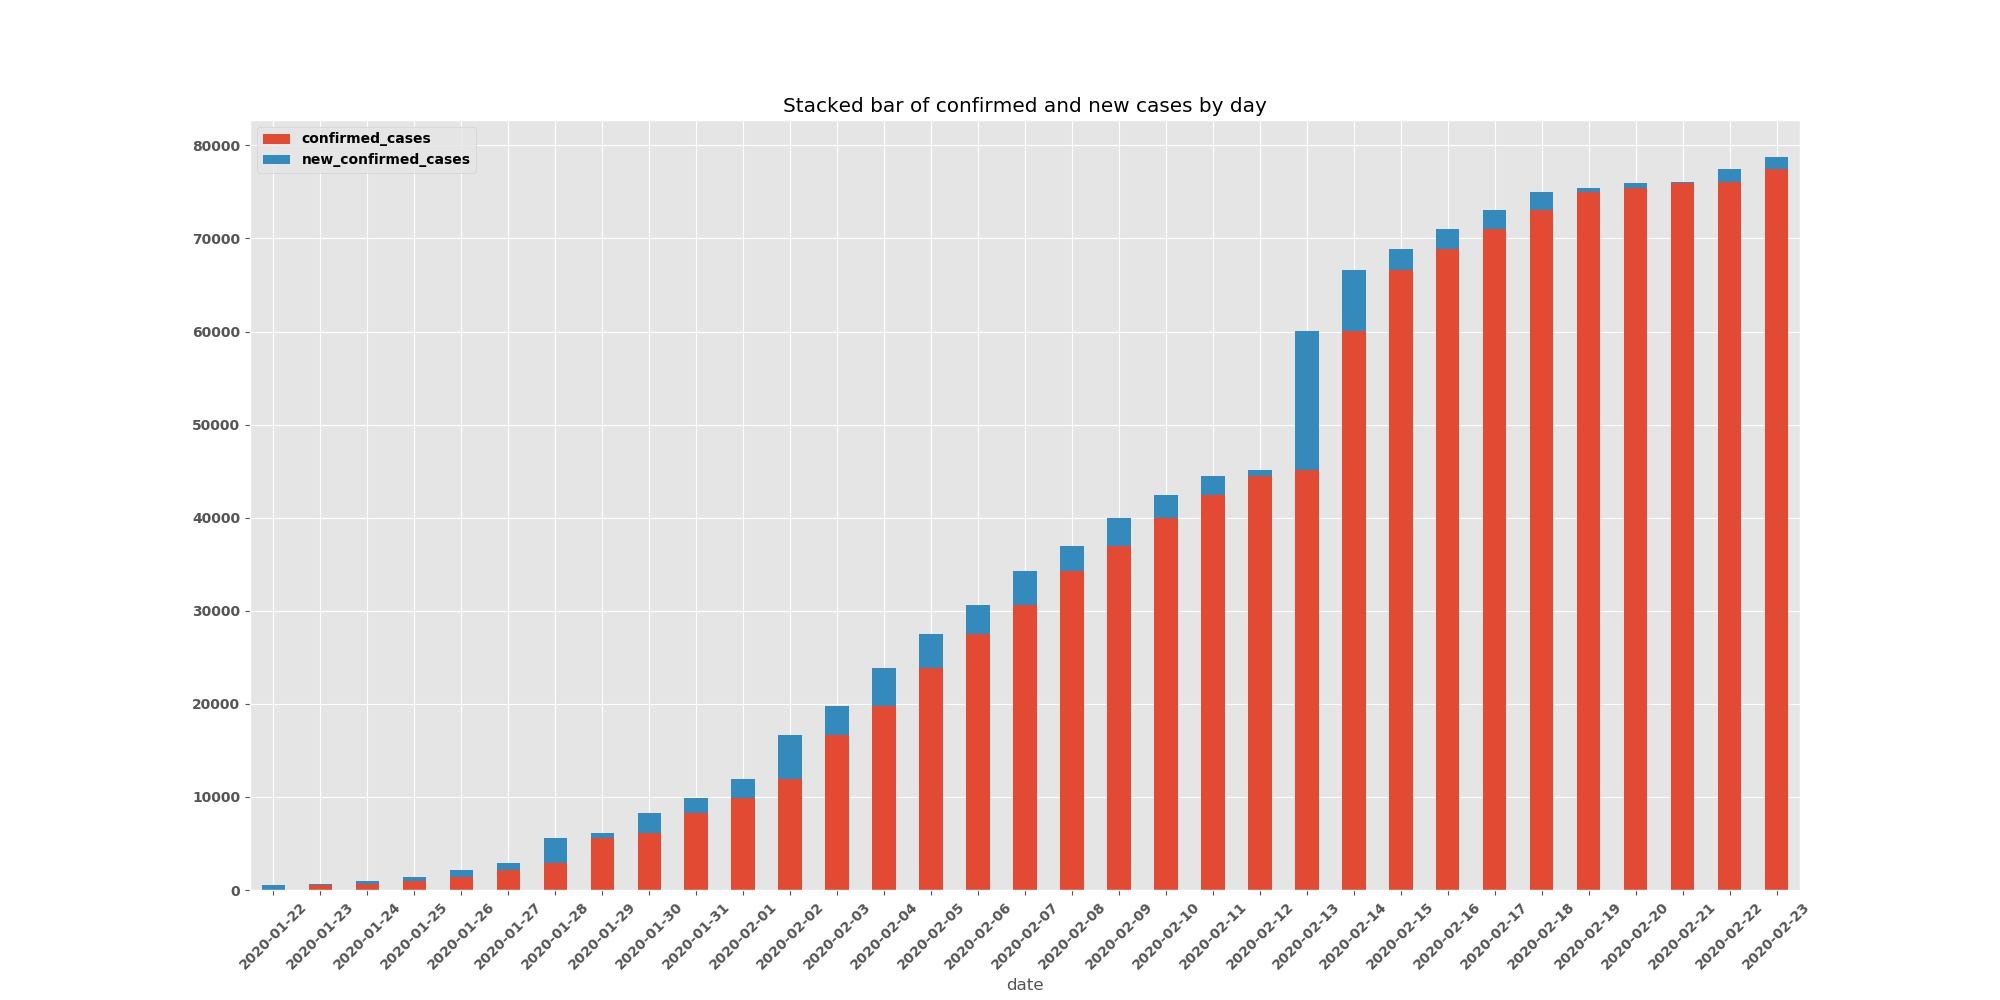
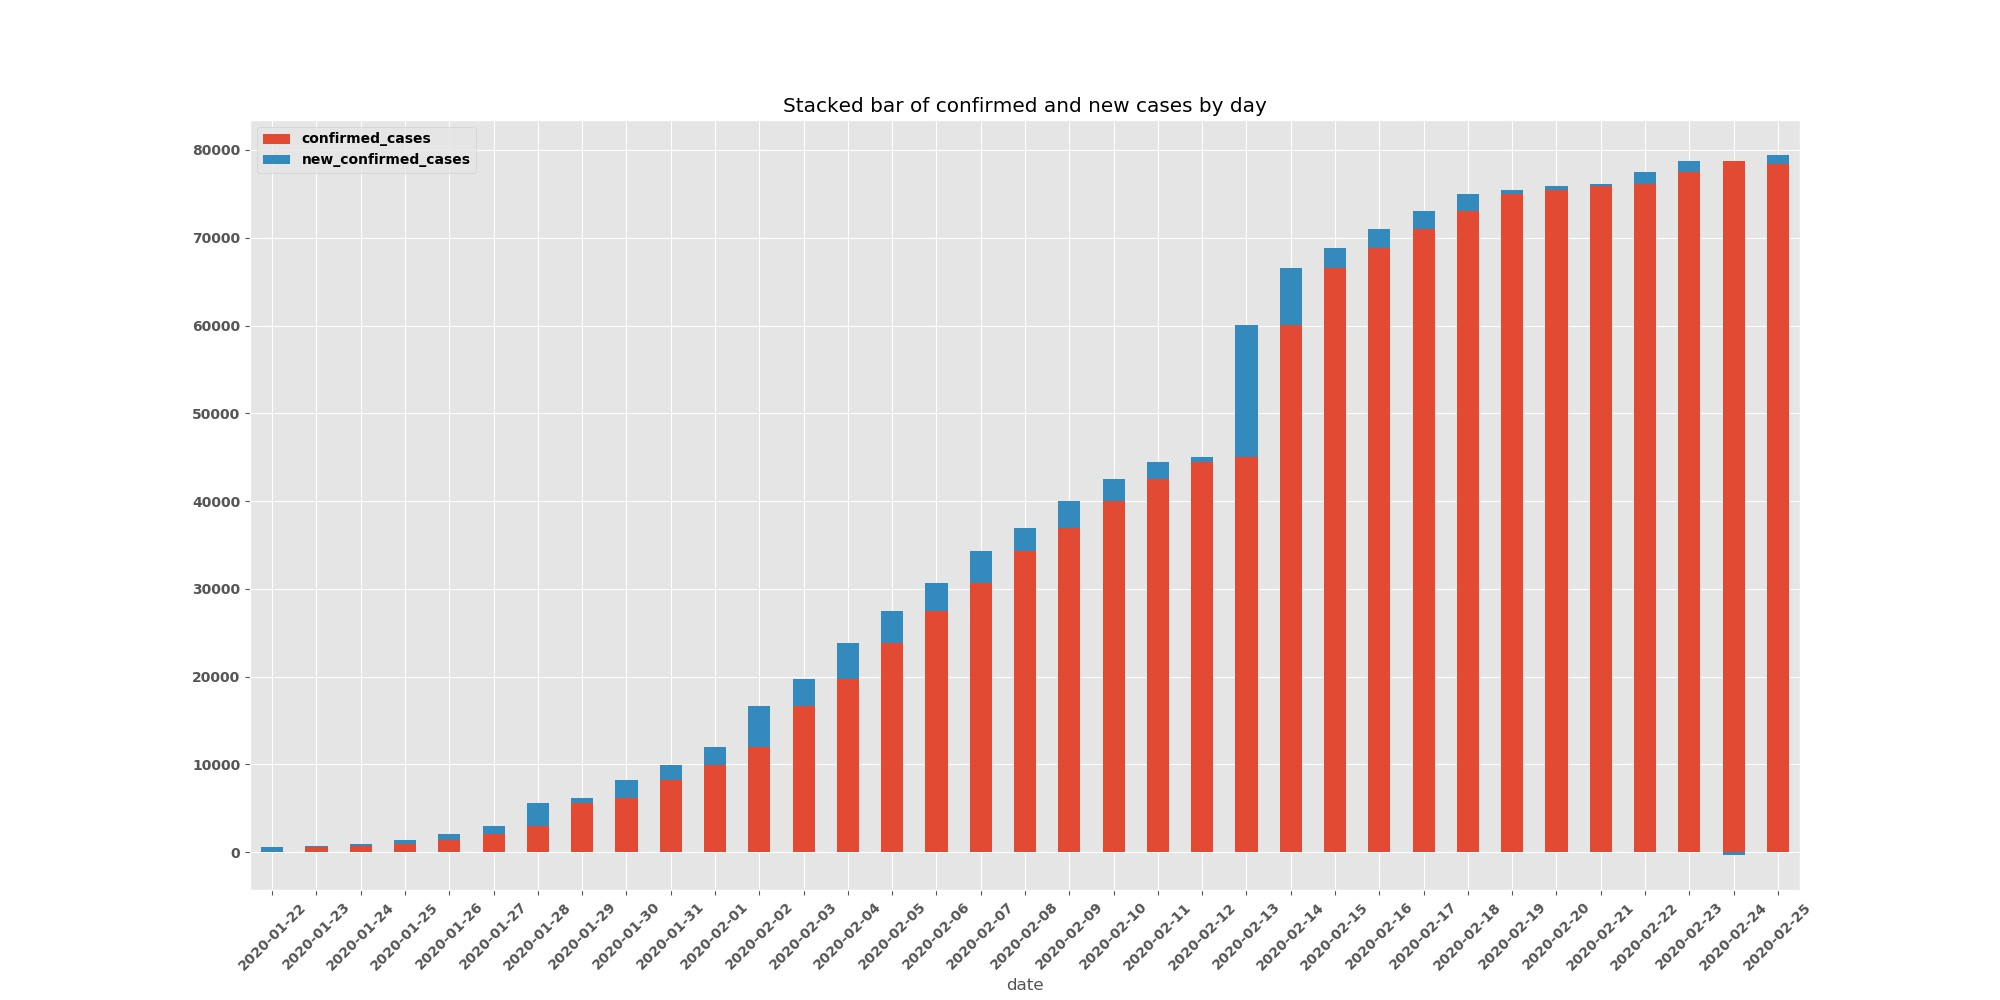
ADD - added report for 26th, disclaimer: the 24th has some inconsistencies in the data

diff --git a/README.md b/README.md
@@ -1,4 +1,4 @@
-#covid-19-analysis
+# covid-19-analysis
 
 ![alt text](https://github.com/AaronWard/coronavirus-analysis/blob/master/tableau/spread.gif "Spread of coronavirus 22nd to 29th")
 
@@ -32,7 +32,7 @@ This plots will be updated daily to visualize stats 3 attributes:
 - ```deaths```
 - ```recoveries```
 
-Last updated: `2020-02-24`
+Last updated: `2020-02-26`
 
 
 ##### Trend Line
